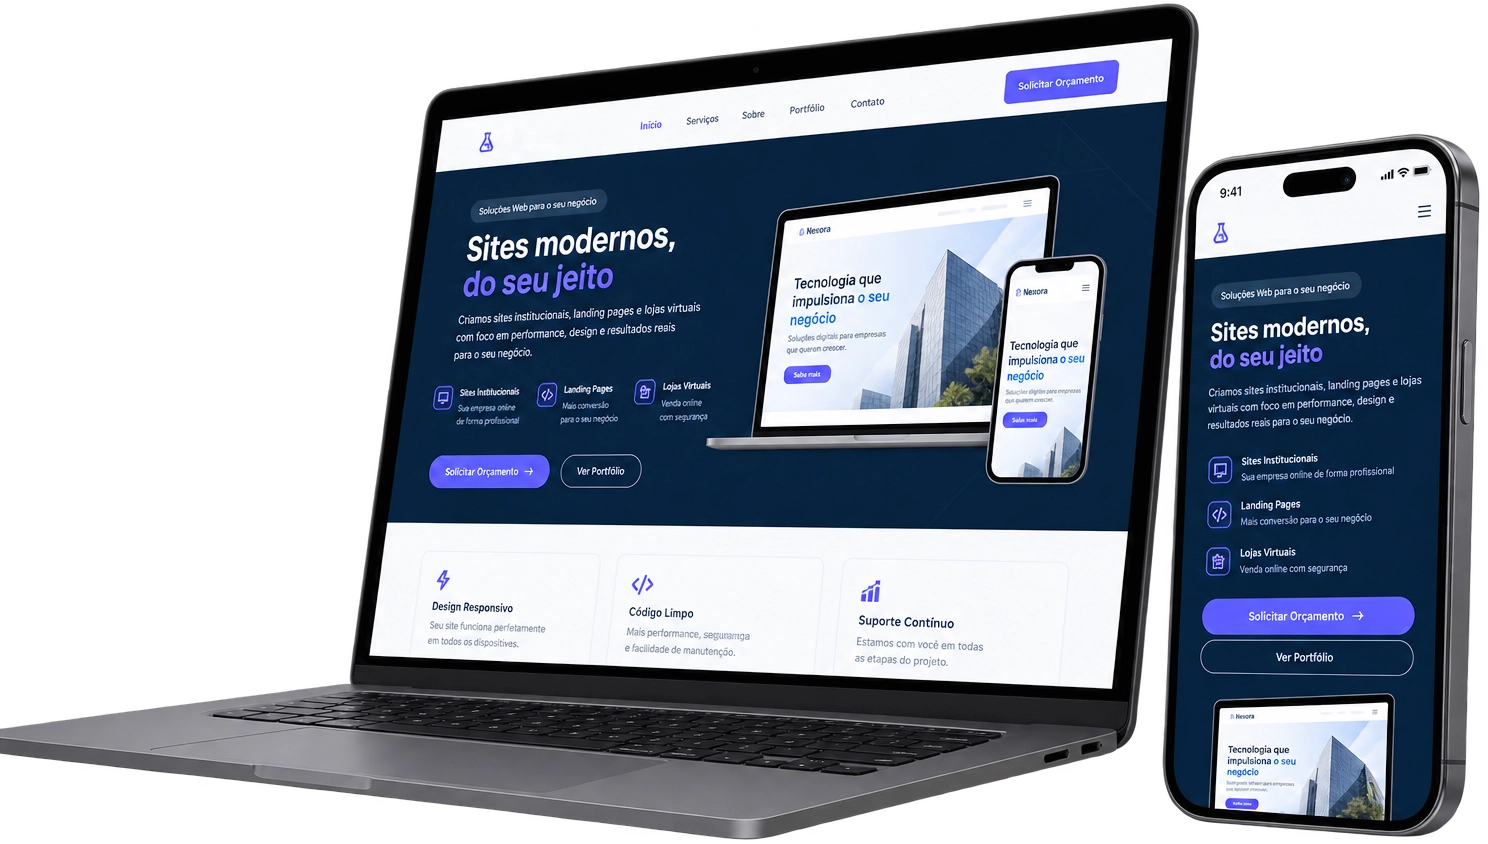
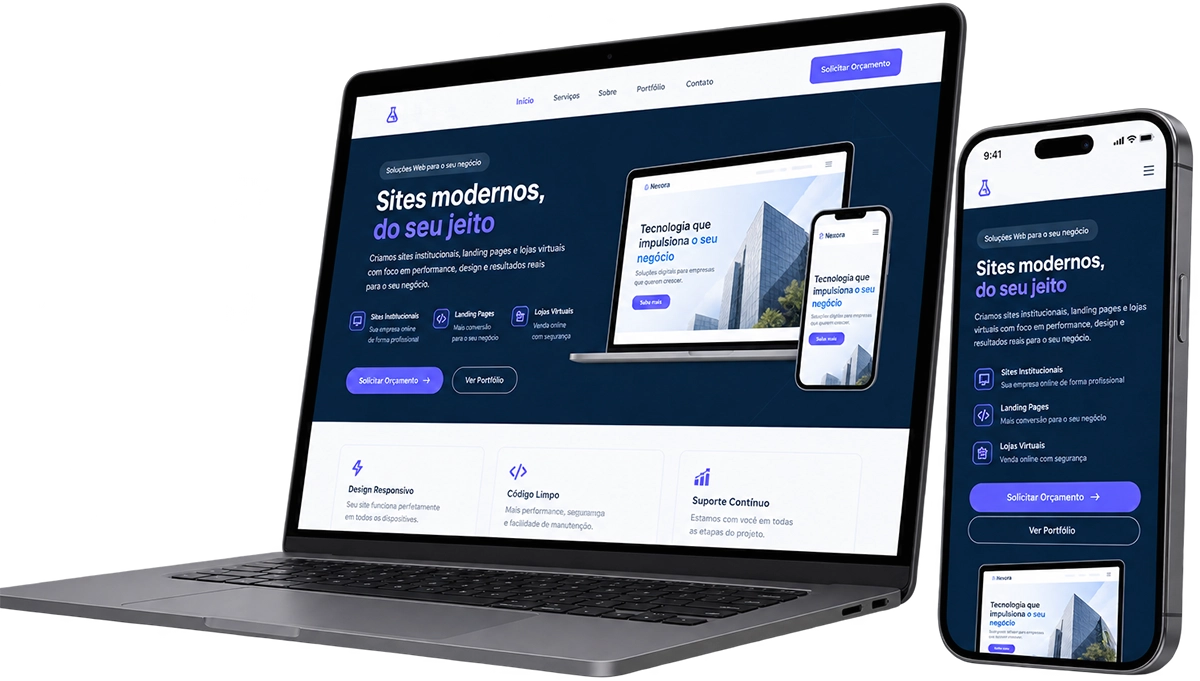
Fix: Aria labels, contraste, imagem compartilhamento

diff --git a/app/layout.tsx b/app/layout.tsx
@@ -27,6 +27,14 @@ export const metadata: Metadata = {
     title: 'Dourado Comunicação | Criação de sites e presença digital',
     description:
       'Desenvolvimento de Landing Pages de alta conversão, sites institucionais e otimização do Google Meu Negócio.',
+    images: [
+      {
+        url: '/dourado_comunicacao_1_1.jpg',
+        width: 1080,
+        height: 1080,
+        alt: 'Área de trabalho Dourado Comunicação',
+      },
+    ],
   },
   robots:
     process.env.VERCEL_ENV === 'production'
@@ -48,12 +56,16 @@ export default function RootLayout({ children }: LayoutProps<'/'>) {
               '@type': 'ProfessionalService',
               name: 'Dourado Comunicação',
               url: 'https://www.douradocomunicacao.com.br',
+              image:
+                'https://www.douradocomunicacao.com.br/dourado_comunicacao_1_1.jpg',
               telephone: '+55 11 96827-6100',
               email: 'contato@douradocomunicacao.com.br',
               address: {
                 '@type': 'PostalAddress',
+                streetAddress: 'Rua Antônio Foster, 563',
                 addressLocality: 'São Paulo',
                 addressRegion: 'SP',
+                postalCode: '04760-040',
                 addressCountry: 'BR',
               },
               sameAs: [

diff --git a/components/contact/index.tsx b/components/contact/index.tsx
@@ -135,6 +135,7 @@ const Contact = () => {
             <div className='flex gap-2'>
               <Link
                 href={'https://www.instagram.com/_douradocomunicacao/'}
+                aria-label='Instagram da Dourado Comunicação'
                 target='_blank'
                 rel='noopener noreferrer'
               >
@@ -142,6 +143,7 @@ const Contact = () => {
               </Link>
               <Link
                 href={'https://www.facebook.com/douradocomunicacao'}
+                aria-label='Facebook da Dourado Comunicação'
                 target='_blank'
                 rel='noopener noreferrer'
               >
@@ -149,6 +151,7 @@ const Contact = () => {
               </Link>
               <Link
                 href={'https://share.google/NLgY0oebGvhNo5cDf'}
+                aria-label='Perfil da Dourado Comunicação no Google'
                 target='_blank'
                 rel='noopener noreferrer'
               >

diff --git a/components/offering-card/index.tsx b/components/offering-card/index.tsx
@@ -12,13 +12,13 @@ const OfferingCard = (offering: iOfferings) => {
        opacity-80 group-hover:opacity-100'
       />
       <div className='relative h-full w-full rounded-[14px] bg-(--bg) p-4'>
-        <span className='text-xs font-bold text-(--accent) uppercase tracking-wider'>
+        <span className='text-xs font-bold text-amber-700 dark:text-(--accent) uppercase tracking-wider'>
           {offering.title}
         </span>
         <h3 className='mt-2 text-xl font-bold text-(--text-h)'>
           {offering.subtitle}
         </h3>
-        <p className='mt-2 text-sm text-zinc-400'>{offering.description}</p>
+        <p className='mt-2 text-sm text-zinc-600 dark:text-zinc-400'>{offering.description}</p>
       </div>
     </div>
   );

diff --git a/components/footer/index.tsx b/components/footer/index.tsx
@@ -137,7 +137,7 @@ const Footer = () => {
             href='mailto:contato@douradocomunicacao.com.br'
             className='text-(--grey0) hover:underline hover:opacity-80 transition-all text-sm sm:text-base'
           >
-            contato@dourado.com.br
+            contato@douradocomunicacao.com.br
           </Link>
           <Link
             href='https://wa.me/5511968276100'

diff --git a/components/hero/index.tsx b/components/hero/index.tsx
@@ -82,6 +82,7 @@ const Hero = () => {
           alt='Notebook e celular exibindo um site criado pela Dourado Comunicação'
           className='relative w-full h-auto max-w-(--breakpoint-md)'
           preload
+          sizes='(min-width: 1280px) 616px, 100vw'
         />
       </div>
     </section>
